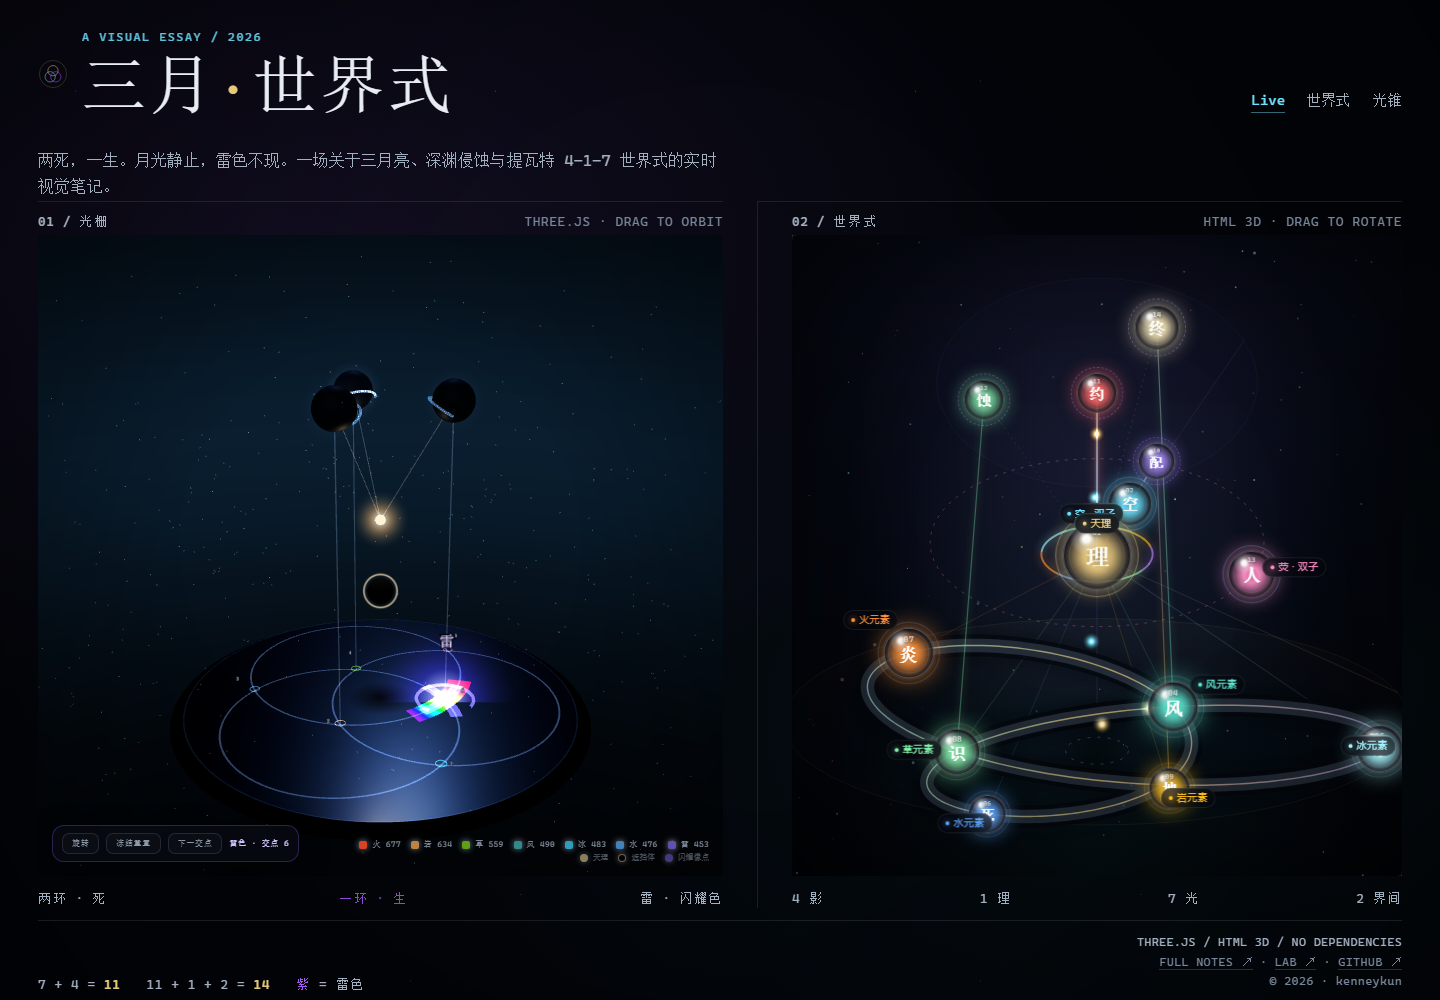
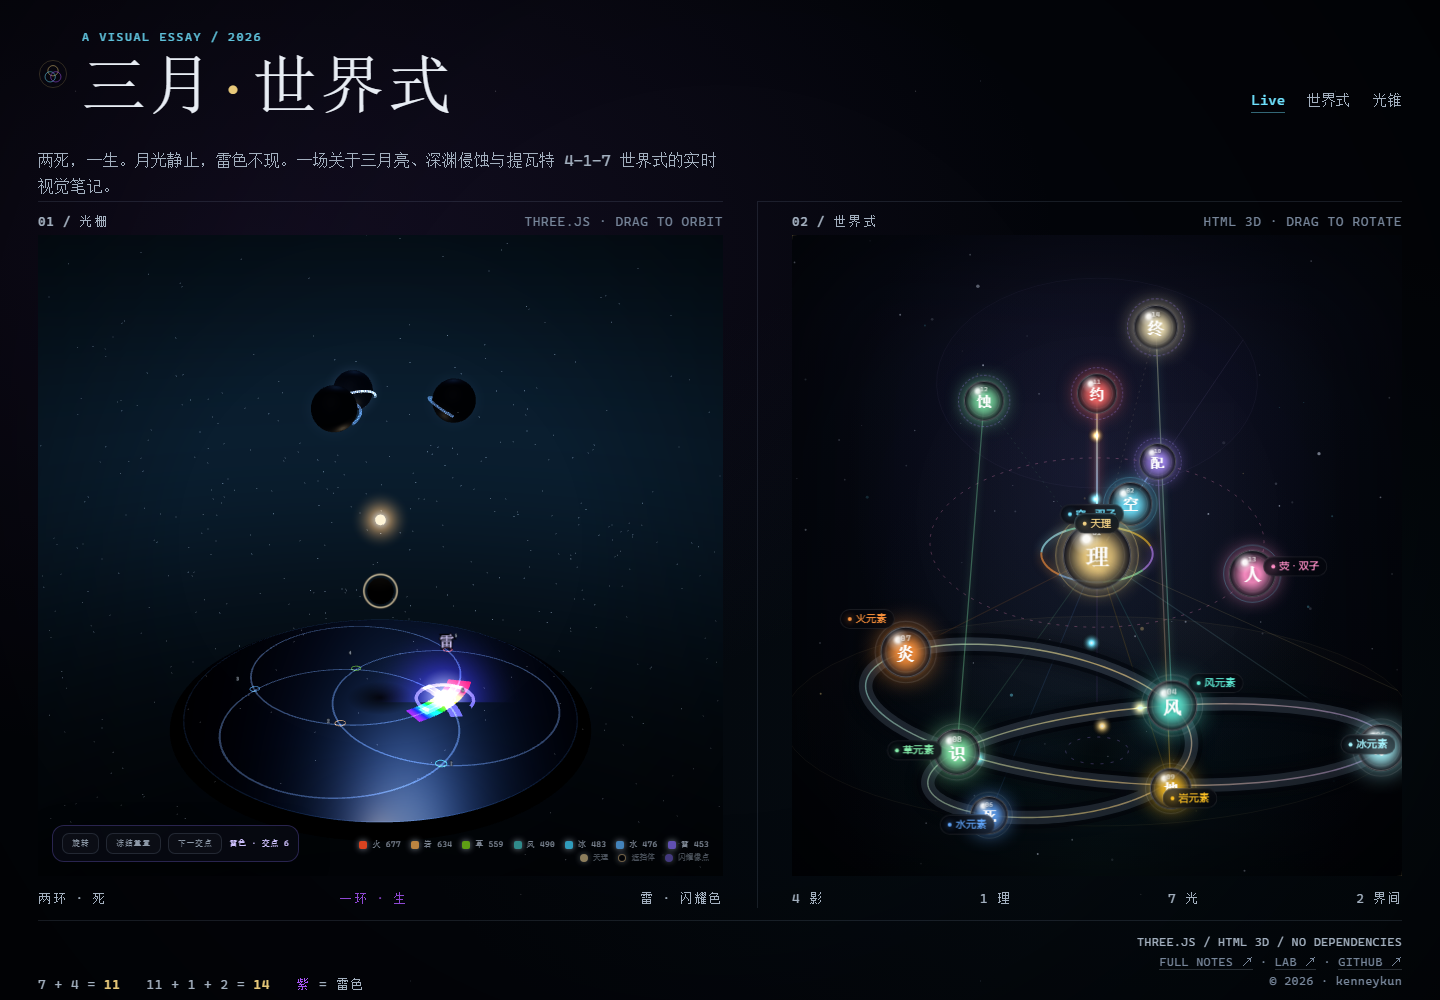
Drop the beam lines from the light path
The two-stage beam cylinders (sun to moons, moons to rings) were pure illustration - nothing in the model derives them. Removing them leaves the chain to be read from the objects themselves: moons on top, sun in the middle, occluder below, one spectral arc on the living ring. Preview regenerated.

diff --git a/docs/prism_three_planb.html b/docs/prism_three_planb.html
@@ -5107,41 +5107,6 @@ window.M3 = {
     });
   }
 
-  /* ---------------- 13. 天理 → 三月 的光束 ---------------- */
-  const beamGroup = new M.Group();
-  scene.add(beamGroup);
-  const beamMaterial = new M.MeshBasicMaterial({
-    color: 0xffe8c0, transparent: true, opacity: 0.13,
-    blending: M.AdditiveBlending, depthWrite: false, side: M.DoubleSide, toneMapped: false,
-  });
-
-  function beamBetween(a, b, radius) {
-    const dir = new M.Vector3().subVectors(b, a);
-    const len = dir.length();
-    const mesh = new M.Mesh(new M.CylinderGeometry(radius, radius, len, 10, 1, true), beamMaterial);
-    mesh.position.copy(a).addScaledVector(dir, 0.5);
-    mesh.quaternion.setFromUnitVectors(new M.Vector3(0, 1, 0), dir.normalize());
-    return mesh;
-  }
-
-  const reflectMaterial = new M.MeshBasicMaterial({
-    color: 0xbfd8ff, transparent: true, opacity: 0.10,
-    blending: M.AdditiveBlending, depthWrite: false, side: M.DoubleSide, toneMapped: false,
-  });
-
-  function buildBeams() {
-    disposeGroup(beamGroup);
-    mirrorRigs.forEach(({ rig, ring }) => {
-      // 上行：天理 → 三月（月在光源之上，只接收上行光）
-      beamGroup.add(beamBetween(sunGroup.position, rig.position, 0.006));
-      // 下行：三月 → 各自的环（反射光落回底色盘）
-      const target = new M.Vector3(ring.x, PLANE_Y + 0.02, ring.z);
-      const beam = beamBetween(rig.position, target, 0.01);
-      beam.material = reflectMaterial;
-      beamGroup.add(beam);
-    });
-  }
-
   /* ---------------- 14. 日食几何（阴影锥半径） ---------------- */
   function umbraRadius() {
     const r = Number(eclipseInput.value);
@@ -5251,7 +5216,6 @@ window.M3 = {
   buildRings();
   buildNodes();
   buildMirrors();
-  buildBeams();
   updateEclipse();
   updateThunder();
 
@@ -5264,8 +5228,7 @@ window.M3 = {
     sunLight.position.copy(sunGroup.position);
     sunOut.textContent = h.toFixed(1);
     updateEclipse();
-    buildBeams();
-  }
+    }
 
   function syncEclipse() {
     eclOut.textContent = Number(eclipseInput.value).toFixed(2);
@@ -5446,7 +5409,7 @@ window.M3 = {
   const SPEED = 10; // 度 / 秒
 
   if (new URLSearchParams(location.search).has('debug')) {
-    window.__dbg = { M, scene, state, RINGS, ringGroup, grooveGroup, nodeGroup, mirrorGroup, sunGroup, eclipseGroup, beamGroup, plate, colorAt, stopList, camera, controls };
+    window.__dbg = { M, scene, state, RINGS, ringGroup, grooveGroup, nodeGroup, mirrorGroup, sunGroup, eclipseGroup, plate, colorAt, stopList, camera, controls };
   }
 
   function tick() {

diff --git a/docs/index.html b/docs/index.html
@@ -179,7 +179,7 @@
     <section class="figure">
       <div class="fig-head"><b>01 / 光栅</b><span>Three.js · drag to orbit</span></div>
       <div class="frame-wrap">
-        <iframe src="prism_three_planb.html?visual=1&v=grating9" title="Three.js 光栅分光：天理点光源、日食遮挡与三面弧面光栅" loading="eager" scrolling="no"></iframe>
+        <iframe src="prism_three_planb.html?visual=1&v=grating10" title="Three.js 光栅分光：天理点光源、日食遮挡与三面弧面光栅" loading="eager" scrolling="no"></iframe>
       </div>
       <div class="fig-foot">
         <span>两环 · 死</span>
@@ -191,7 +191,7 @@
     <section class="figure tree">
       <div class="fig-head"><b>02 / 世界式</b><span>HTML 3D · drag to rotate</span></div>
       <div class="frame-wrap">
-        <iframe src="world_formula.html?embed=1&v=grating9" title="世界式十四节点立体图" loading="eager" scrolling="no"></iframe>
+        <iframe src="world_formula.html?embed=1&v=grating10" title="世界式十四节点立体图" loading="eager" scrolling="no"></iframe>
       </div>
       <div class="fig-foot">
         <span>4 影</span>
